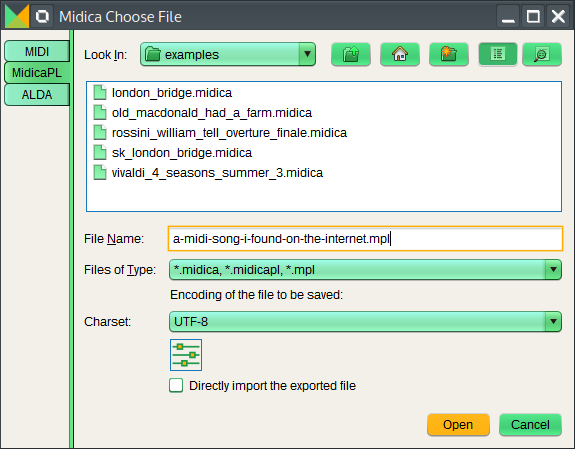
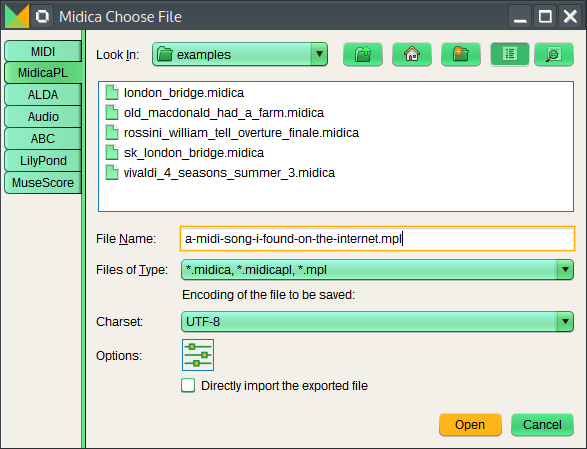
updated screenshots and added DLS and URL support

diff --git a/src/pages/screenshots.html b/src/pages/screenshots.html
@@ -207,6 +207,15 @@ meta-desc:  "MIDI Player, Karaoke Player, MIDI Analyzer, Soundbank Viewer, MIDI 
 			</div>
 			<div class="cell auto">
 				<p><b>URL</b> Tab: Choose a URL to a soundbank in SF2 or DLS format.</p>
+				<p>Already downloaded soundbanks are automatically cached. This saves time if the same URL is used a second time.</p>
+			</div>
+		</div>
+		<div class="cell grid-x grid-padding-x align-middle">
+			<div class="cell medium-shrink">
+				<img src="assets/img/soundbank_3.png" />
+			</div>
+			<div class="cell auto">
+				<p>The soundbank cache can be cleared. That may be useful if an updated soundbank version is available on an already cached URL.</p>
 			</div>
 		</div>
 		<div class="cell" id="export-section">
@@ -264,6 +273,62 @@ meta-desc:  "MIDI Player, Karaoke Player, MIDI Analyzer, Soundbank Viewer, MIDI 
 				<p><b>ALDA</b> Tab: Choose the ALDA file to be exported.</p>
 				<p><b>This feature is still experimental!</b></p>
 				<p>If the <em>Directly Import...</em> checkbox is checked, the exported file will be directly re-imported after the export.</p>
+			</div>
+		</div>
+		<div class="cell grid-x grid-padding-x align-middle">
+			<div class="cell medium-shrink">
+				<img src="assets/img/export_4_audio.png" />
+			</div>
+			<div class="cell auto">
+				<p><b>Audio</b> Tab: Choose the Audio file to be exported.</p>
+				<p>Supported formats for the Audio export are: WAV, AU, SND, AIFF and AIFC</p>
+				<p>By clicking the <em>Options</em> icon you can open a window to fine-tune the audio export.</p>
+			</div>
+		</div>
+		<div class="cell grid-x grid-padding-x align-middle">
+			<div class="cell medium-shrink">
+				<img src="assets/img/export_4_audio_options.png" />
+			</div>
+			<div class="cell auto">
+				<p>The <b>Audio Export Settings</b> window to fine-tune the audio export.</p>
+			</div>
+		</div>
+		<div class="cell grid-x grid-padding-x align-middle">
+			<div class="cell medium-shrink">
+				<img src="assets/img/export_5_abc.png" />
+			</div>
+			<div class="cell auto">
+				<p><b>ABC</b> Tab: Choose the ABC file to be exported.</p>
+				<p><em>abcMIDI</em> must be installed. The command or full path to the midi2abc executable must be correctly set for exporting ABC files.</p>
+			</div>
+		</div>
+		<div class="cell grid-x grid-padding-x align-middle">
+			<div class="cell medium-shrink">
+				<img src="assets/img/export_6_ly.png" />
+			</div>
+			<div class="cell auto">
+				<p><b>LilyPond</b> Tab: Choose the LilyPond file to be exported.</p>
+				<p><em>LilyPond</em> must be installed. The command or full path to the midi2ly executable must be correctly set for exporting LilyPond files.</p>
+			</div>
+		</div>
+		<div class="cell grid-x grid-padding-x align-middle">
+			<div class="cell medium-shrink">
+				<img src="assets/img/export_7_mscore.png" />
+			</div>
+			<div class="cell auto">
+				<p><b>MuseScore</b> Tab: Choose a MuseScore compatible file to be exported.</p>
+				<p><em>MuseScore</em> must be installed. The command or full path to the musescore executable must be correctly set for exporting MuseScore compatible files.</p>
+				<p>The following formats can be exported here:</p>
+				<ul>
+					<li>MusicXML (compressed and uncompressed)</li>
+					<li>MuseScore</li>
+					<li>MP3</li>
+					<li>Ogg Vorbis</li>
+					<li>FLAC</li>
+					<li>PDF</li>
+					<li>PNG</li>
+					<li>SVG</li>
+				</ul>
 			</div>
 		</div>
 	</section>
